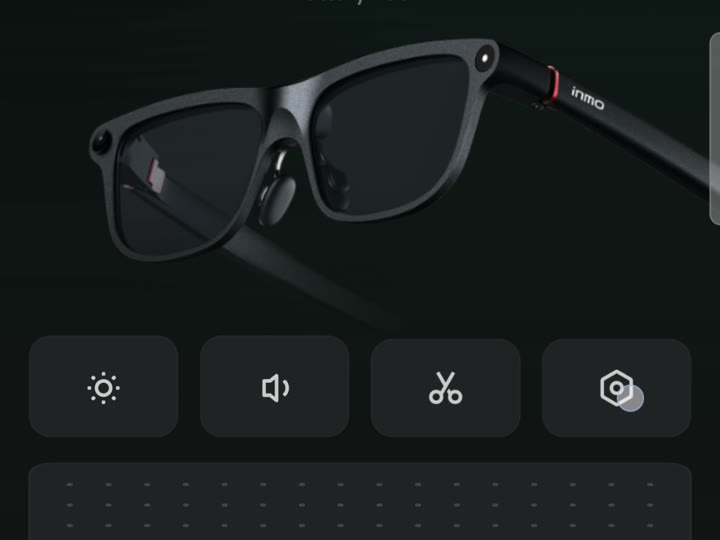
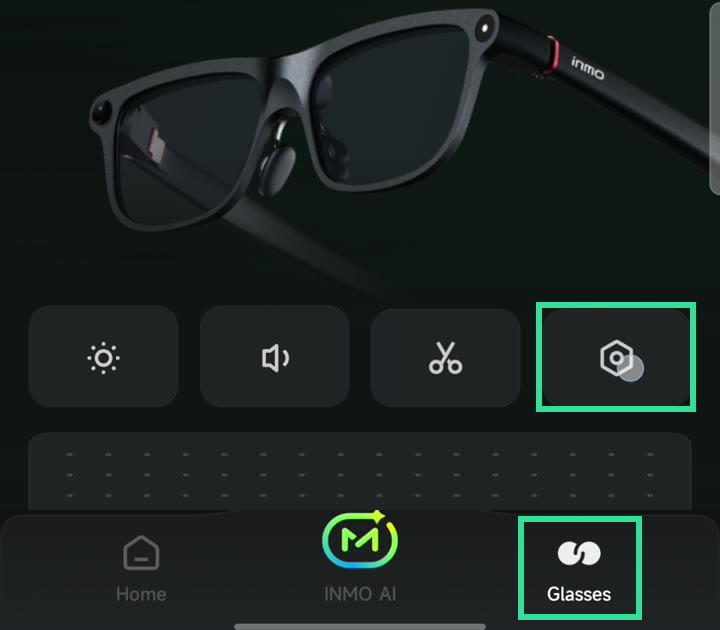
Copy revisions: frame rate, display ownership, INMO settings reset, Glasses tab callout

diff --git a/site/index.html b/site/index.html
@@ -74,13 +74,14 @@
       SHA-256 <code>98e57cbe8a39aee9dae3382242be373a8c760d328d4c05a0b2e0a11b03446b28</code></p>
   </header>
 
-  <p>LensSpark shows what's on your phone on the glasses as a slow slideshow: the newest picture about
-    once a second. It isn't video, but it's great for anything you'd glance at.</p>
+  <p>LensSpark shows what's on your phone on the glasses at about one screenshot per second (up to about four
+    with RFCOMM, below). It isn't video, but it's great for anything you'd glance at. Landscape and a dark theme
+    read best.</p>
 
   <h2>What it's good for</h2>
   <div class="grid">
     <div class="card"><h3>Sing along</h3><p>Spotify with lyrics on screen: the words follow the song.</p></div>
-    <div class="card"><h3>Read a book</h3><p>Kindle or any e-reader. Landscape and a dark theme read best.</p></div>
+    <div class="card"><h3>Read a book</h3><p>Kindle or any e-reader app.</p></div>
     <div class="card safety"><h3>Maps</h3><p>Google Maps, Waze and other maps. <strong>Be safe: don't let the glasses
       take your eyes off the road, and follow local laws.</strong></p></div>
     <div class="card"><h3>Follow the game</h3><p>Keep a scoreboard or play-by-play in view.</p></div>
@@ -89,7 +90,7 @@
   </div>
 
   <h2>Hands-free control</h2>
-  <p>There's no ring control yet; you control what's shown from the phone. Android's
+  <p>There's no ring control; you control what's shown from the phone. Android's
     <strong>Voice Access</strong> works really well once you learn it ("scroll down", "tap Next"), and
     Bixby or Google Assistant can get you a long way.</p>
 
@@ -105,17 +106,18 @@
   <table>
     <tr><th></th><th>GATT (default)</th><th>RFCOMM (Advanced)</th></tr>
     <tr><th>INMO Global</th><td>Keeps working alongside LensSpark</td><td>Must unbind the glasses from INMO Global first</td></tr>
-    <tr><th>Speed</th><td>About 8 KB/s</td><td>About 35 KB/s, roughly 4× faster</td></tr>
+    <tr><th>Speed</th><td>About 1 frame per second (8&nbsp;KB/s)</td><td>Up to about 4 frames per second (35&nbsp;KB/s)</td></tr>
     <tr><th>Glasses audio</th><td>Works if already connected</td><td>LensSpark connects it for you</td></tr>
     <tr><th>Going back</th><td>Nothing to do</td><td>Unbind in LensSpark, then reconnect in INMO Global (below)</td></tr>
   </table>
   <p class="muted">Start with GATT. Change transport in Advanced, only while not connected.</p>
 
   <h2>Switching to RFCOMM</h2>
-  <p>In INMO Global, unbind the glasses first:</p>
+  <p>In INMO Global, unbind the glasses first. Unbinding resets INMO Global's settings, such as which apps send
+    notifications to the glasses, so you'll set them again when you go back.</p>
   <div class="steps">
-    <figure><img src="img/inmo-glasses-tab.jpg" alt="INMO Global Glasses tab with the settings button at the right of the control row" width="720" height="540" loading="lazy">
-      <figcaption><b>1.</b> Open the <b>Glasses</b> tab and tap the settings button.</figcaption></figure>
+    <figure><img src="img/inmo-glasses-tab.jpg" alt="INMO Global Glasses tab, with the Glasses tab at bottom right and the settings button highlighted" width="720" height="630" loading="lazy">
+      <figcaption><b>1.</b> Tap <b>Glasses</b> at the bottom right, then the settings button.</figcaption></figure>
     <figure><img src="img/inmo-settings.jpg" alt="INMO Global glasses settings list ending in Unbind" width="720" height="1000" loading="lazy">
       <figcaption><b>2.</b> Scroll down and tap <b>Unbind</b>.</figcaption></figure>
     <figure><img src="img/inmo-unbind.jpg" alt="Unbind? confirmation dialog" width="720" height="610" loading="lazy">
@@ -145,18 +147,23 @@
     <li><strong>Locking the phone stops sharing.</strong> Android ends screen capture on lock. Unlock and tap Share screen.</li>
     <li>High quality is the slowest. Use Fast or Balanced for anything that moves.</li>
     <li>While sharing, the glasses' display won't stay asleep. Stop sharing to let it sleep.</li>
-    <li>With GATT, INMO Global navigation and your shared screen take turns on the display.</li>
+    <li>While you share, LensSpark has the glasses' display: glasses apps and INMO Global navigation aren't usable
+      at the same time. Stop sharing to use them.</li>
+    <li>Unbinding in INMO Global (needed for RFCOMM) resets its settings, including per-app notification
+      choices. You'll set them again after reconnecting.</li>
     <li>Secure screens (banking apps, password fields, most video apps) show as black, as Android does.</li>
     <li>If the connection drops, LensSpark reconnects by itself, up to 5 tries.</li>
   </ul>
 
   <h2>Privacy</h2>
   <p>No internet permission, no analytics, no accounts. Nothing captured is saved. Your screen goes from
-    your phone to your glasses over Bluetooth and nowhere else.</p>
+    your phone to your glasses over Bluetooth and nowhere else. LensSpark relies on Bluetooth's own pairing
+    encryption and adds none of its own.</p>
 
   <footer>
     LensSpark is an independent project, not affiliated with or endorsed by INMO. Product names belong to
-    their owners. Beta software: use at your own risk.
+    their owners. INMO software updates may change the glasses in ways that stop LensSpark from working.
+    Beta software: use at your own risk.
   </footer>
 </main>
 </body>
